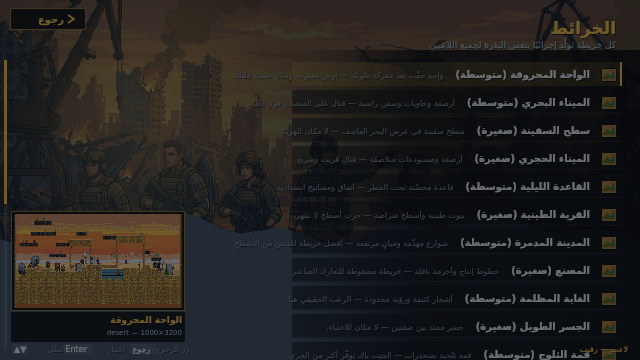
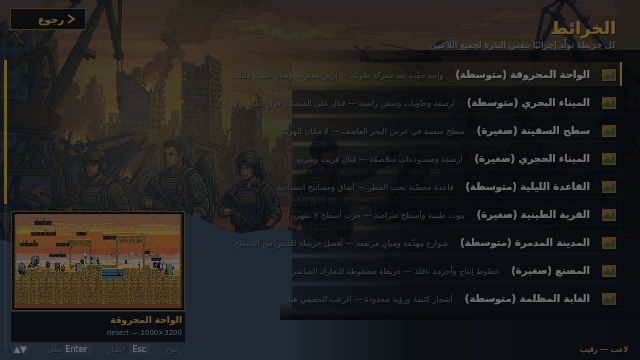
زر رجوع أندرويد/المتصفح + إصلاحات واجهة إضافية
- web: handleBack() + history.pushState + window.m11Back يربط زر الرجوع
  بمنطق اللعبة (لعب ← إيقاف ← رجوع خطوة ← استئناف).
- webview-apk: onBackPressed يمرّر الزر للعبة بدل الخروج الفوري، ويُصغّر
  التطبيق من الرئيسية.
- godot: NOTIFICATION_WM_GO_BACK_REQUEST + config/quit_on_go_back=false.
- إصلاح سلايدر «اهتزاز الشاشة» (كان NaN في أدوات المعاينة).
- عدّاد FPS اختياري في الويب + تمرير تلقائي للصف المختار في أداة اللقطات.

diff --git a/web/src/game/ui.js b/web/src/game/ui.js
@@ -861,7 +861,7 @@ export class MenuSystem {
         choice('جودة الرسم', [{ id: 0, label: 'منخفضة' }, { id: 1, label: 'متوسطة' }, { id: 2, label: 'عالية' }, { id: 3, label: 'قصوى' }], () => g.settings.quality, (v) => { g.settings.quality = v; g.saveSettings(); g.applyQuality(); }),
         choice('حد الإطارات', [{ id: 30, label: '30' }, { id: 60, label: '60' }, { id: 120, label: '120' }, { id: 0, label: 'غير محدود' }], () => g.settings.fpsLimit, (v) => { g.settings.fpsLimit = v; g.saveSettings(); }),
         choice('تكبير البكسل (عدد صحيح)', [{ id: true, label: 'مضبوط (أفضل)' }, { id: false, label: 'ملء الشاشة' }], () => g.settings.integerScaling, (v) => { g.settings.integerScaling = v; g.saveSettings(); }),
-        slider('اهتزاز الشاشة', 0, 1.5, 0.05, () => g.settings.shakeScale, (v) => { g.settings.shakeScale = v; g.saveSettings(); }, (v) => `${Math.round(v * 100)}%`),
+        slider('اهتزاز الشاشة', 0, 1.5, 0.05, () => (Number.isFinite(g.settings.shakeScale) ? g.settings.shakeScale : 1), (v) => { g.settings.shakeScale = v; g.saveSettings(); }, (v) => `${Math.round((Number.isFinite(v) ? v : 1) * 100)}%`),
         choice('مؤثرات ما بعد المعالجة', [{ id: true, label: 'مفعّلة' }, { id: false, label: 'موقوفة (أسرع)' }], () => g.settings.postFx, (v) => { g.settings.postFx = v; g.saveSettings(); g.applyQuality(); }),
         choice('الإضاءة الديناميكية', [{ id: true, label: 'مفعّلة' }, { id: false, label: 'موقوفة' }], () => g.settings.lighting, (v) => { g.settings.lighting = v; g.saveSettings(); g.applyQuality(); }),
         choice('حبيبات الفيلم', [{ id: 0, label: 'بدون' }, { id: 0.06, label: 'خفيفة' }, { id: 0.14, label: 'قوية' }], () => g.settings.grain, (v) => { g.settings.grain = v; g.saveSettings(); g.applyQuality(); }),
@@ -883,6 +883,7 @@ export class MenuSystem {
         choice('قتال الفريق (Friendly Fire)', [{ id: false, label: 'موقوف' }, { id: true, label: 'مفعّل (خطر!)' }], () => g.settings.friendlyFire, (v) => { g.settings.friendlyFire = v; g.saveSettings(); }),
         header('خيارات متقدمة'),
         choice('شبكة/تشخيص (Overlay)', [{ id: false, label: 'مخفي' }, { id: true, label: 'ظاهر' }], () => g.settings.netOverlay, (v) => { g.settings.netOverlay = v; g.saveSettings(); }),
+        choice('عداد الإطارات (FPS)', [{ id: false, label: 'مخفي' }, { id: true, label: 'ظاهر' }], () => g.settings.showFps, (v) => { g.settings.showFps = v; g.saveSettings(); }),
         action('تصفير الإعدادات', () => { g.resetSettings(); this.message('أُعيدت الإعدادات الافتراضية', 'ok'); }),
         action('حذف كل البيانات المحفوظة', () => { g.wipeData(); this.message('حُذفت البيانات', 'error'); }, { type: 'danger' }),
       ],

diff --git a/web/src/main.js b/web/src/main.js
@@ -27,7 +27,7 @@ const DEFAULT_SETTINGS = {
   botCount: 7, difficulty: 2, friendlyFire: false, netOverlay: false,
   map: 'oasis', opKey: 'rashid', skinIndex: 0, loadout: ['jabha', 'n9'],
   throwable: 'grenade', port: 41980, webNet: 'bots', maxResend: 3,
-  lastIp: '', bigMinimap: false, showTouchControls: 'auto', crosshairColor: '#7CFFB2',
+  lastIp: '', bigMinimap: false, showTouchControls: 'auto', crosshairColor: '#7CFFB2', showFps: false,
   playerName: 'مقاتل', volumeIntro: true,
 };
 
@@ -132,6 +132,8 @@ class Game {
       this.menuWorld.addActor({ isBot: true, team: 0, name: BOT_NAMES[i], difficulty: 2, seed: 900 + i, opKey: Object.keys(this.charMeta.operators)[i % Math.max(1, Object.keys(this.charMeta.operators).length)] });
     }
     this.camera.setBounds(this.menuWorld.level);
+    // زر الرجوع في أندرويد/المتصفح يتصل بمنطق اللعبة (لا يخرج من التطبيق فجأة)
+    this.installBackHandler();
     setProgress(1, 'جاهز');
     setTimeout(() => {
       document.getElementById('loading')?.classList.add('hidden');
@@ -166,6 +168,36 @@ class Game {
 
   applyAudio() {
     audio.applySettings(this.audioSettings);
+  }
+
+  /**
+   * يعالج زر الرجوع (أندرويد/متصفح) بترتيب منطقي:
+   * لعب ← إيقاف، إيقاف ← رجوع داخل الشاشات أو استئناف، قوائم ← رجوع خطوة.
+   * يعيد true إذا استُهلك الزر.
+   */
+  handleBack() {
+    if (this.state === 'playing') { this.pause(); return true; }
+    if (this.state === 'paused') {
+      if (this.menus && this.menus.stack.length > 1) { this.menus.back(); return true; }
+      this.resume();
+      return true;
+    }
+    if (this.state === 'results') { this.state = 'menu'; this.menus.home(); return true; }
+    if (this.state === 'editor') { if (this.editor) this.editor.closed = true; return true; }
+    if (this.state === 'menu') {
+      if (this.menus && this.menus.stack.length > 1) { this.menus.back(); return true; }
+      return false;
+    }
+    return false;
+  }
+
+  /** يربط زر الرجوع بنظام أندرويد (window.m11Back) وبقائمة المتصفح */
+  installBackHandler() {
+    window.m11Back = () => (this.handleBack() ? '1' : '0');
+    window.addEventListener('popstate', () => {
+      if (this.handleBack()) history.pushState({ m11: 1 }, '');
+    });
+    try { history.pushState({ m11: 1 }, ''); } catch (e) { /* تجاهل */ }
   }
 
   resize() {

diff --git a/web/src/game/hud.js b/web/src/game/hud.js
@@ -127,6 +127,10 @@ export class HUD {
     if (this.killcam) this.drawKillcam(ctx, world, opts);
     if (this.netOverlay) this.drawNetOverlay(ctx, world, view, opts);
     this.drawInteraction(ctx, world, view);
+    // عدّاد الإطارات (تشخيص اختياري — يُفعّل من الإعدادات)
+    if (opts.settings && opts.settings.showFps) {
+      this.num(ctx, `${Math.round(this.fps)} FPS`, W / 2, H - 3, { size: 7, color: '#7E8C99', align: 'center' });
+    }
     ctx.restore();
   }
 
@@ -456,7 +460,7 @@ export class HUD {
 
   drawKillFeed(ctx, world, opts = {}) {
     // على اللمس توجد أزرار إيقاف/خريطة أعلى اليمين، فنبدأ السجل أسفل منها
-    let y = opts.showTouchControls ? 34 : 22;
+    let y = opts.showTouchControls ? 48 : 22;
     const x = W - 10;
     for (let i = world.killFeed.length - 1; i >= 0 && i >= world.killFeed.length - 5; i--) {
       const k = world.killFeed[i];

diff --git a/webview-apk/app/src/main/java/com/m11/localwar/MainActivity.java b/webview-apk/app/src/main/java/com/m11/localwar/MainActivity.java
@@ -98,14 +98,24 @@ public class MainActivity extends Activity {
         web.saveState(outState);
     }
 
+    /**
+     * زر الرجوع: يُمرَّر أولًا لمنطق اللعبة (window.m11Back) — كان سابقًا
+     * يخرج من التطبيق فورًا من أي شاشة، وهذا سبب شكوى «لا يوجد زر رجوع».
+     * ترتيب اللعبة: لعب ← إيقاف، شاشة فرعية ← رجوع خطوة، الرئيسية ← تصغير التطبيق.
+     */
     @Override
     public void onBackPressed() {
-        // داخل اللعبة: الرجوع يتصرّف كزر داخلي إن أمكن، وإلا نخرج
-        if (web.canGoBack()) {
-            web.goBack();
-        } else {
+        if (web == null) {
             super.onBackPressed();
+            return;
         }
+        web.evaluateJavascript("(window.m11Back ? window.m11Back() : '0')", value -> {
+            boolean handled = value != null && value.contains("1");
+            if (!handled) {
+                // في الشاشة الرئيسية: نُصغّر التطبيق بدل قتله (لا يفقد اللاعب تقدمه)
+                moveTaskToBack(true);
+            }
+        });
     }
 
     @Override
